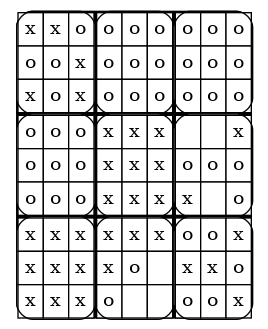
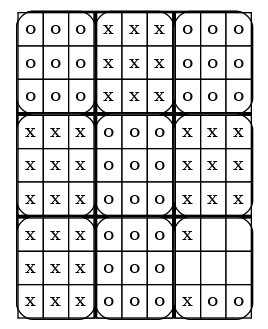
f

diff --git a/minimax.c b/minimax.c
@@ -55,13 +55,14 @@ int playMove(SuperMorpion *game, int gridIndex, int rowIndex, int colIndex) {
 
 int superminimax(SuperMorpion *game, int depth, char player,int fathervalue) {
     int score = evaluateGameState(game);
+    int playersign= (player=='x') ? 1 : -1;
     if (depth >= MAXdep || score != 0) {
-        return score; // Retourner le score si jeu terminé ou profondeur max atteinte
+        return playersign * score; // Retourner le score si jeu terminé ou profondeur max atteinte
     }
     else{
         if(isFinal(game)) return 0;
     }
-    int playersign= (player=='x') ? 1 : -1;
+    
     int bestScore = -100 ;
     int targetGridRow = game->lastMoveRow;
     int targetGridCol = game->lastMoveCol;
@@ -79,10 +80,7 @@ int superminimax(SuperMorpion *game, int depth, char player,int fathervalue) {
                 for (int row = 0; row < 3; row++) {
                     for (int col = 0; col < 3; col++) {
                         if (grid->grid[row][col] == ' ') {
-                            if(row==2 && col==0)
-                            {
-                                int tt=1;
-                            }
+                            
                             // Jouer le coup
                             if(playMove(game, (gridRow) * 3 + (gridCol) , row, col))
                             {
@@ -108,7 +106,7 @@ int superminimax(SuperMorpion *game, int depth, char player,int fathervalue) {
                             // la coupure alpha-bêta
                             if(bestScore>fathervalue && fathervalue != -1000 && bestScore!=-100) 
                             {
-                            return playersign * bestScore;
+                            return  bestScore;
                             }
                             }
                             
@@ -121,7 +119,7 @@ int superminimax(SuperMorpion *game, int depth, char player,int fathervalue) {
     }
 
    //     int f=playersign * bestScore;
-    return playersign * bestScore;
+    return bestScore;
 }
 
 int evaluateGameState(SuperMorpion *game) {
@@ -207,7 +205,7 @@ void computerMove(SuperMorpion *game) {
                         game->currentPlayer=opponentPlayer;
                         // Appeler minimax
                         int playersign=(currentPlayer=='x') ? 1 : -1;
-                        int score = playersign * superminimax(game, 0, game->currentPlayer,-1000); 
+                        int score =  -superminimax(game, 0, game->currentPlayer,-1000); 
                         // Annuler le coup
                         game->smallGrids[gridRow][gridCol].grid[row][col] = ' ';
                         game->currentPlayer=currentPlayer;

diff --git a/main.c b/main.c
@@ -33,7 +33,7 @@ int main(){
     SuperMorpion game;
     initializeSuperMorpion(&game);
     //game.smallGrids[1][1].grid[1][1]='x';
-  char *str="xxoooxxoxOOOX2xooox1oXxxxxo1o2oox4ox 83 o";
+  char *str="OX99OXXOx7o 83 o";
   superparseFEN(&game,str);
     displayGame(&game);
 
